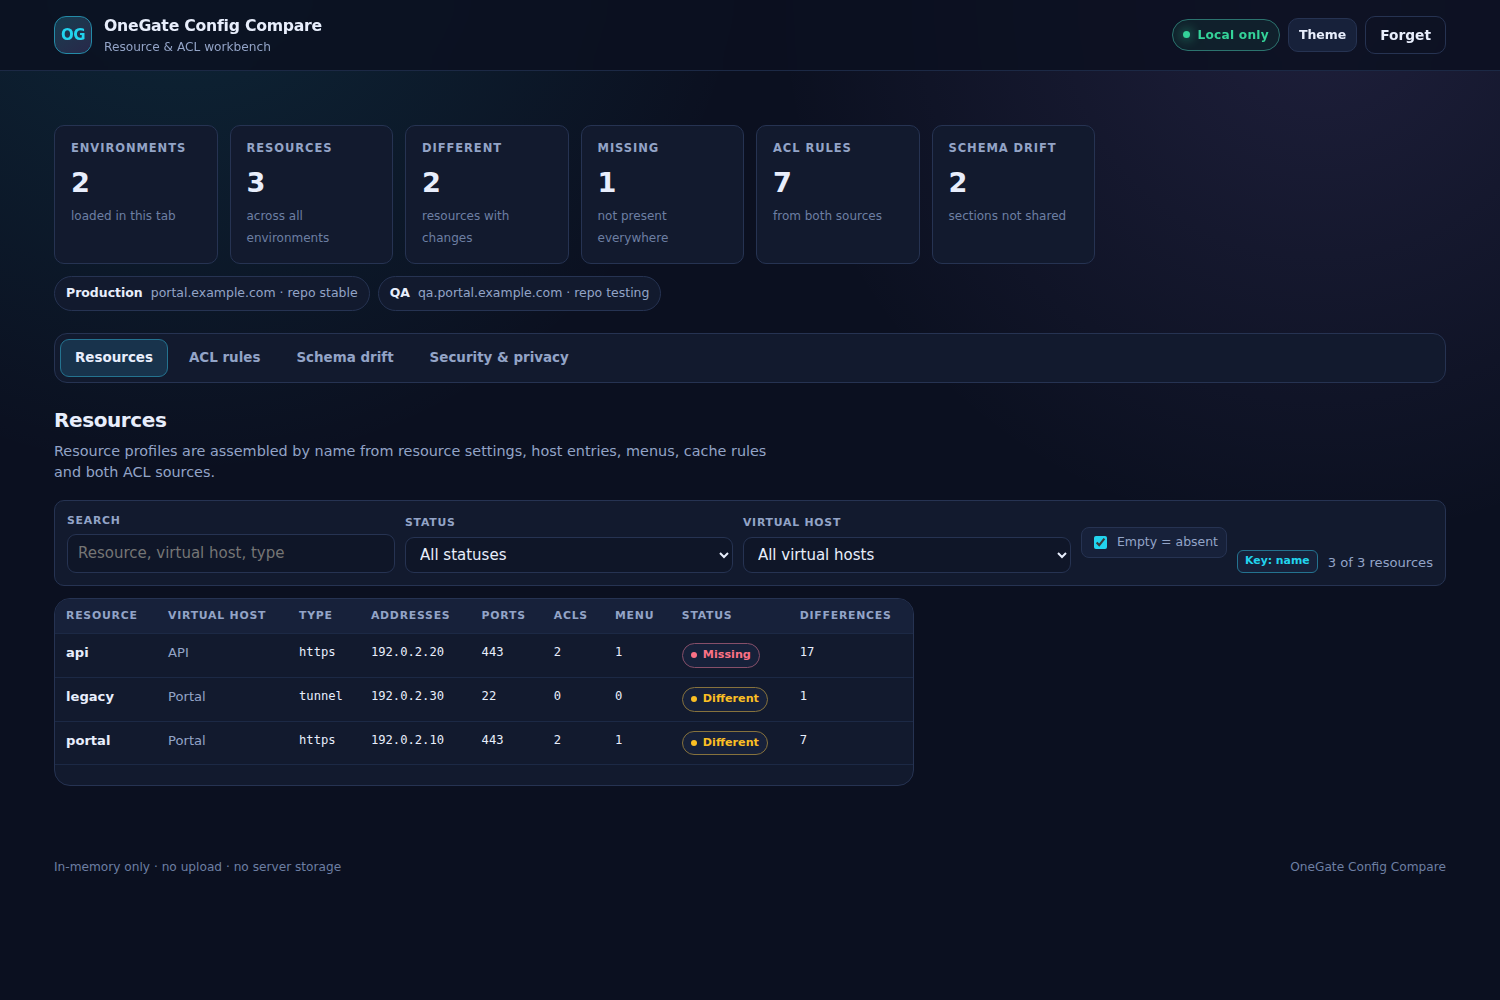
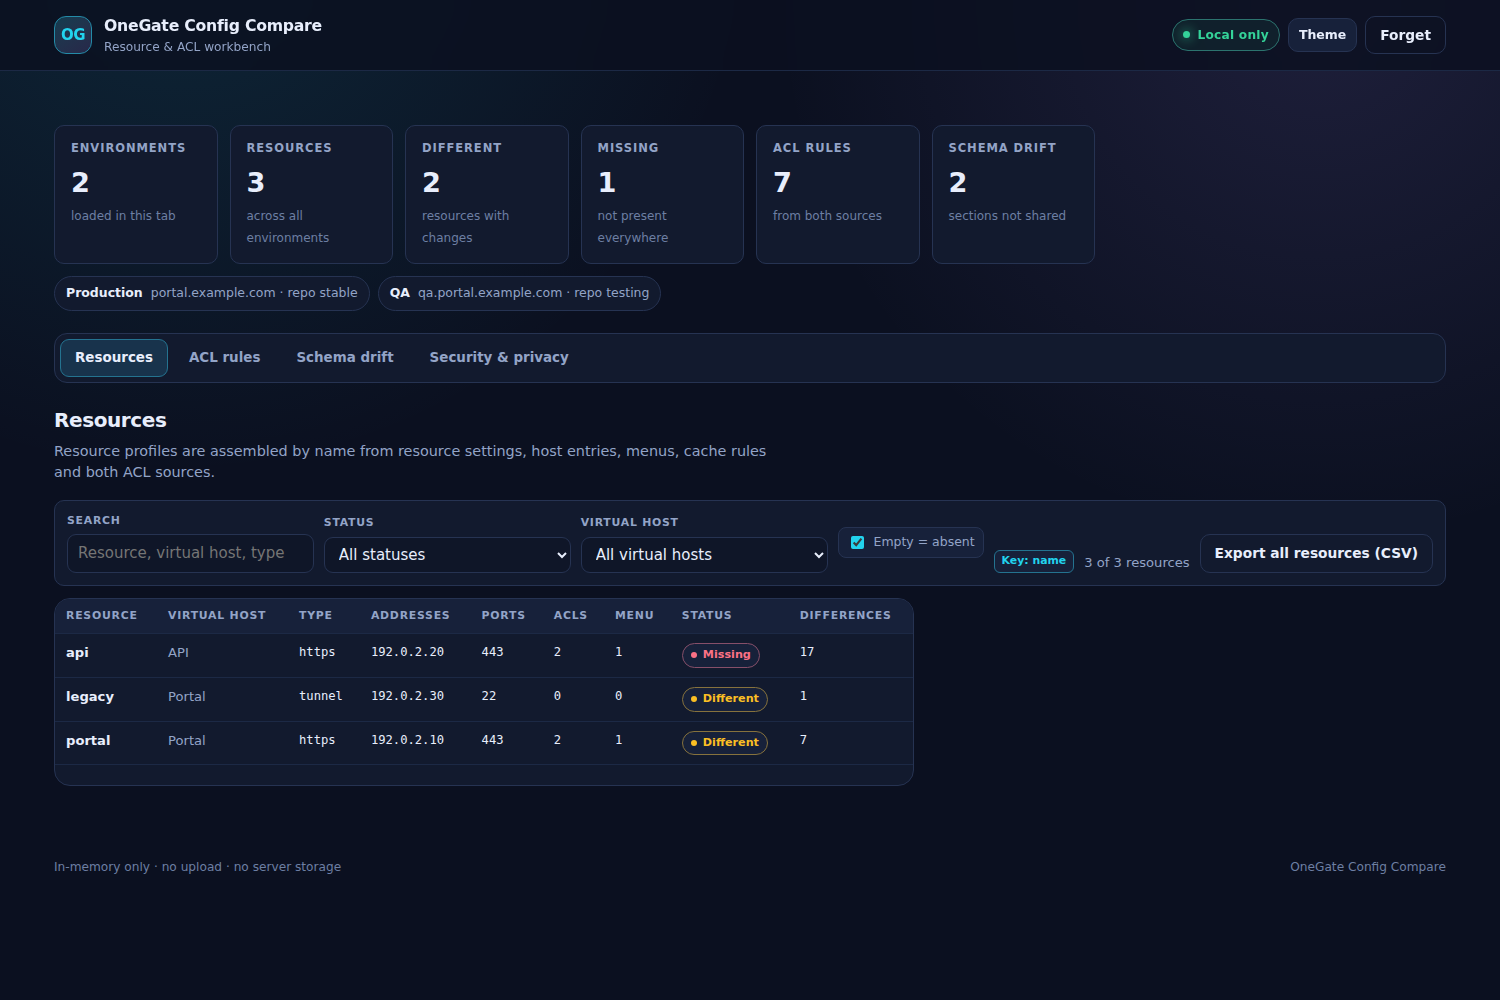
feat: export all resource rows to CSV
- add Export all resources (CSV) to the Resources view
- export every resource, not just the current page or filtered rows
- include resource type, addresses, ports, ACL counts, menu/cache counts, status, differences and environments present
- add CSV safety tests and update the resource screenshot

Changed region(s): [[0.6747, 0.527, 0.9507, 0.589], [0.3987, 0.496, 0.6747, 0.558], [0.2147, 0.496, 0.3373, 0.558]]

diff --git a/public/assets/js/export.js b/public/assets/js/export.js
@@ -73,6 +73,58 @@ export function toCsv(records, columns = ACL_COLUMNS) {
   return `${rows.join('\r\n')}\r\n`;
 }
 
+function resourceStatusLabel(resource, environments) {
+  if (environments.length === 1 && resource.status === 'same') return 'Loaded';
+  return {
+    same: 'Same',
+    different: 'Different',
+    missing: 'Missing',
+  }[resource.status] || resource.status;
+}
+
+export function toResourceCsv(resources, environments = []) {
+  const headers = [
+    'Resource',
+    'Virtual host',
+    'Type',
+    'Addresses',
+    'Ports',
+    'ACL table rules',
+    'Detailed ACL rules',
+    'ACL rules total',
+    'Menu entries',
+    'Cache entries',
+    'Status',
+    'Differences',
+    'Present in',
+  ];
+  const rows = [headers.map((header) => csvEscape(header)).join(',')];
+  const environmentNames = new Map(environments.map((environment) => [environment.id, environment.name]));
+
+  for (const resource of resources) {
+    const presentIn = (resource.presentIn || [])
+      .map((id) => environmentNames.get(id) || `Environment ${id}`)
+      .join('; ');
+    rows.push([
+      resource.name,
+      resource.vhName,
+      resource.type,
+      (resource.addresses || []).join('; '),
+      (resource.ports || []).join('; '),
+      resource.counts?.aclLegacy || 0,
+      resource.counts?.aclDetailed || 0,
+      resource.counts?.aclTotal || 0,
+      resource.counts?.menu || 0,
+      resource.counts?.cacheControl || 0,
+      resourceStatusLabel(resource, environments),
+      resource.diffCount || 0,
+      presentIn,
+    ].map((value) => csvEscape(value)).join(','));
+  }
+
+  return `${rows.join('\r\n')}\r\n`;
+}
+
 export function toJson(records, context = {}, columns = ACL_COLUMNS) {
   return JSON.stringify(
     {

diff --git a/public/assets/js/app.js b/public/assets/js/app.js
@@ -7,6 +7,7 @@ import {
   toCsv,
   toHtml,
   toJson,
+  toResourceCsv,
 } from './export.js';
 
 const RESOURCE_PAGE_SIZE = 100;
@@ -61,6 +62,7 @@ const dom = {
   resourceStatus: document.getElementById('resource-status'),
   resourceVh: document.getElementById('resource-vh'),
   resourceCount: document.getElementById('resource-count'),
+  exportResources: document.getElementById('export-resources'),
   resourceTable: document.getElementById('resource-table'),
   resourcePagination: document.getElementById('resource-pagination'),
   resourceDetail: document.getElementById('resource-detail'),
@@ -1090,6 +1092,13 @@ function currentAclFilters(scope) {
   };
 }
 
+function exportResourcesCsv() {
+  if (!state.result) return;
+  const csv = toResourceCsv(state.result.resources, state.result.environments);
+  downloadText(`onegate-resources-${timestampSlug()}.csv`, csv, 'text/csv;charset=utf-8');
+  toast(`Exported ${formatNumber(state.result.resources.length)} resources.`, 'ok');
+}
+
 function exportAcl(scope) {
   if (!state.result) return;
   const records = scope === 'all' ? state.result.aclRules : filteredAclRecords();
@@ -1324,6 +1333,7 @@ function bindEvents() {
     state.aclVisibleColumns = screenDefaultColumns();
     renderAcl();
   });
+  dom.exportResources.addEventListener('click', exportResourcesCsv);
   dom.exportAll.addEventListener('click', () => exportAcl('all'));
   dom.exportFiltered.addEventListener('click', () => exportAcl('filtered'));
 

diff --git a/public/index.html b/public/index.html
@@ -115,6 +115,7 @@
           <label class="inline-check"><input id="empty-as-absent-toggle" type="checkbox" checked> Empty = absent</label>
           <span class="badge accent" title="The supplied configs key resources by name; number mode is deferred">Key: name</span>
           <span id="resource-count" class="status-text"></span>
+          <button id="export-resources" class="button ghost" type="button">Export all resources (CSV)</button>
         </div>
 
         <div class="workspace-split">

diff --git a/README.md b/README.md
@@ -483,7 +483,7 @@ LICENSE
 
 1. **Import.** Add 1-5 environment cards. Each card has a label and accepts multiple files by picker or drag-and-drop. Leave a card empty for single-file ACL browsing and export. The screen explains that files stay in the browser and that secrets are redacted.
 2. **Summary.** After parsing, show environments, resources, differences, missing resources, ACL rule count and schema drift.
-3. **Resources.** Search and filter by status or virtual host. Each row shows type, addresses, ports, ACL count, menu count, status and difference count.
+3. **Resources.** Search and filter by status or virtual host. Each row shows type, addresses, ports, ACL count, menu count, status and difference count. **Export all resources (CSV)** exports every resource row, not just the current page or filtered view.
 4. **Resource detail.** Click a resource to compare every field across environments. Only differences show by default; **Show all fields** reveals the full compared profile. Secret values appear as `[redacted]`.
 5. **ACL rules.** View every rule from every resource, from both ACL sources. Filter by environment, resource, virtual host, source, auth method, encryption, deny and free text.
 6. **Export.** Export all ACL rules or only the filtered view as CSV, HTML or JSON. Exports are generated in the browser with a Blob.
@@ -511,13 +511,13 @@ node --test tests/*.test.mjs
 
 Current status:
 
-- **13/13 parser and export tests pass** under Node 22, including single-file mode, multi-file merging and visible-column export subsets.
+- **14/14 parser and export tests pass** under Node 22, including single-file mode, multi-file merging, resource CSV export and visible-column export subsets.
 - **Repository verification passes**: required files, no forbidden storage/network/HTML-injection APIs, CSP present, Compose hardening and MIT license.
 - **Server smoke test passes**: static shell, JS, CSP, `no-store`, content type, 404, path-traversal rejection and POST rejection.
-- **Browser smoke test passes** with Chromium/Playwright: demo import, file-based import, `.bup` rejection, single-file ACL mode, resource table, resource detail, ACL service columns, ACL rule detail panel, responsive column defaults, column toggles, secret redaction, ACL filters, CSV download, schema drift, empty browser storage and no external requests.
+- **Browser smoke test passes** with Chromium/Playwright: demo import, file-based import, `.bup` rejection, single-file ACL mode, resource table, resource CSV export, resource detail, ACL service columns, ACL rule detail panel, responsive column defaults, column toggles, secret redaction, ACL filters, CSV download, schema drift, empty browser storage and no external requests.
 - **Docker build is covered by CI**; the local development environment used here has no Docker daemon.
 
-The test suite covers section splitting, comments, the `<HEADER>` marker, properties, tables, JSON, secret markers, resource profiles, VH assignment, single-file mode, multi-file merging per environment, both ACL sources, missing/different resources, schema drift, empty-versus-absent comparison, the bundled demo, CSV formula-injection protection, HTML escaping and JSON export.
+The test suite covers section splitting, comments, the `<HEADER>` marker, properties, tables, JSON, secret markers, resource profiles, VH assignment, single-file mode, multi-file merging per environment, both ACL sources, missing/different resources, schema drift, empty-versus-absent comparison, the bundled demo, resource CSV export, CSV formula-injection protection, HTML escaping and JSON export.
 
 Still to add:
 
